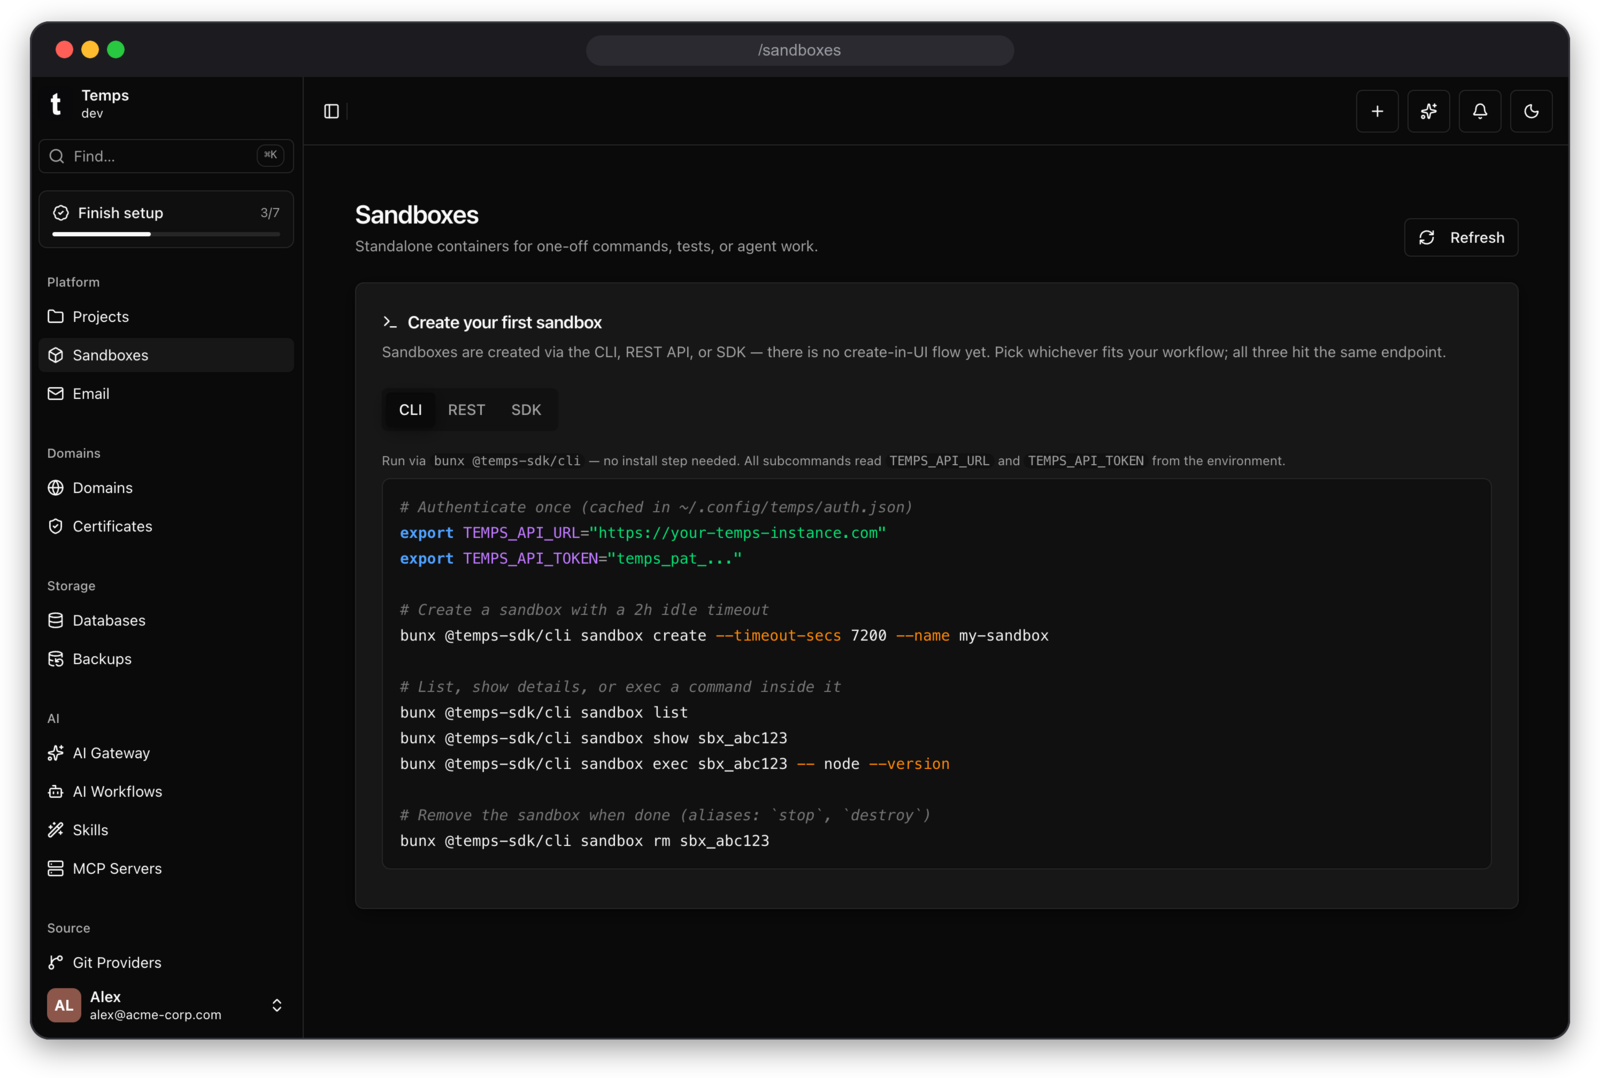
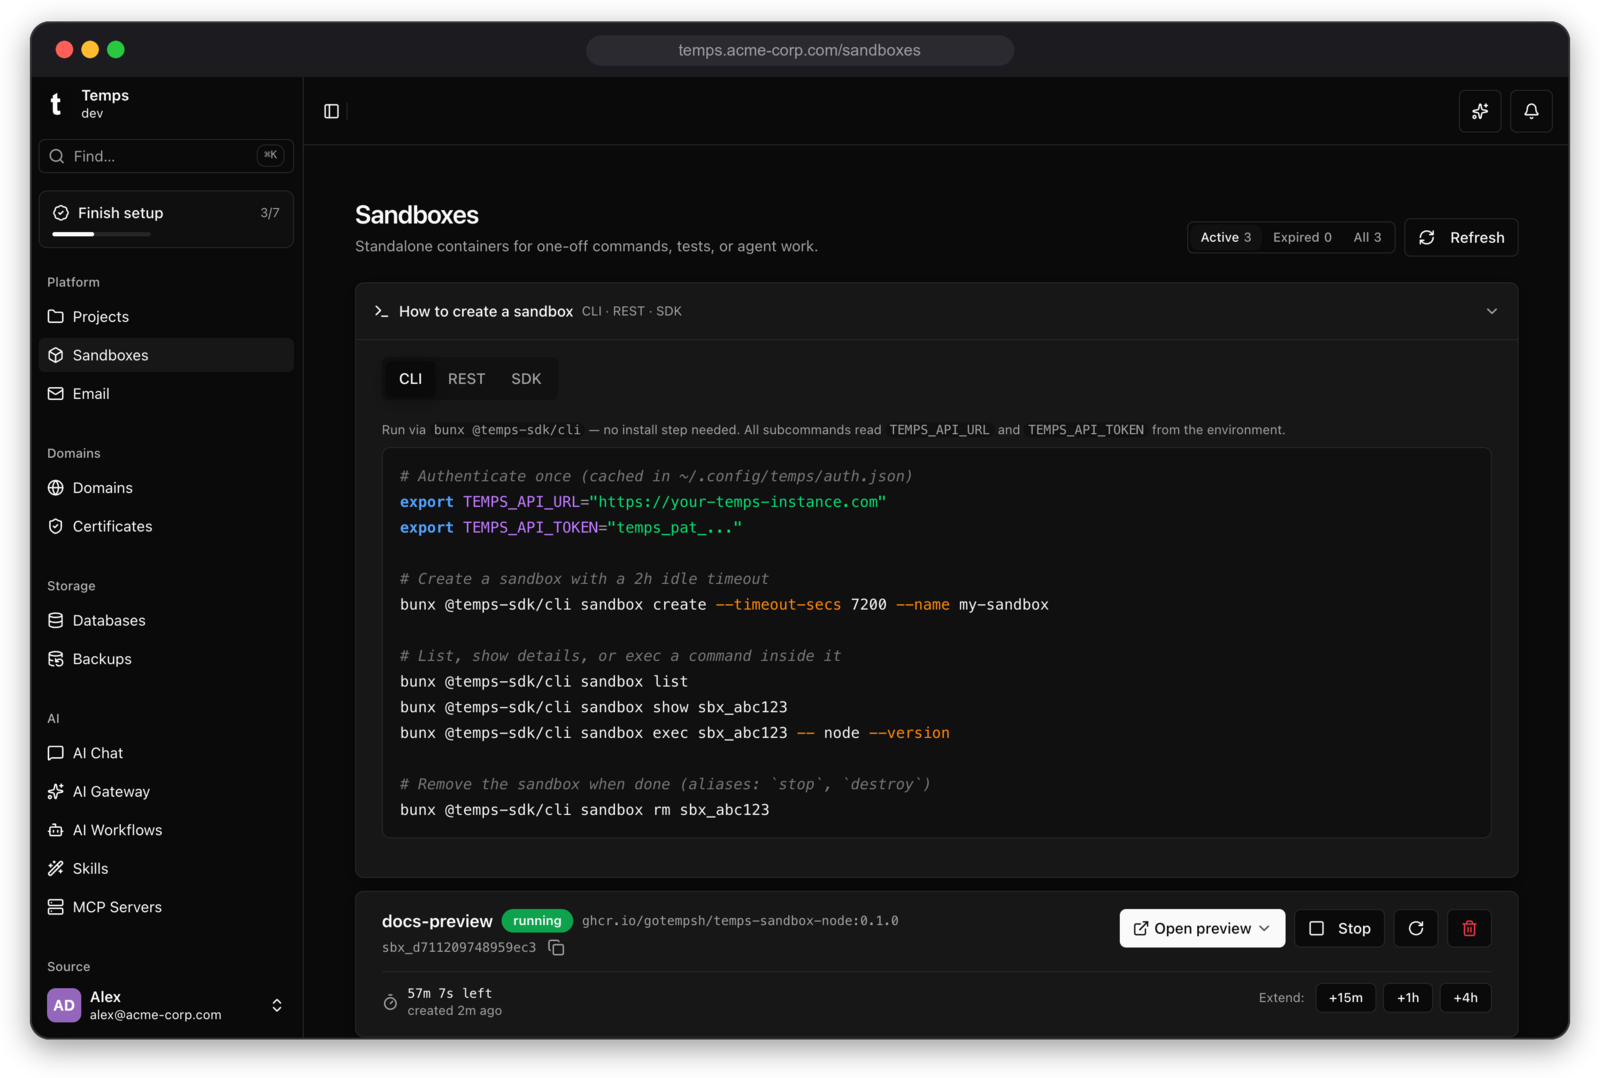
docs(readme): lead the sandbox section with Firecracker, the SDK and password previews
Sandboxes were described as a generic 'isolated code execution' feature, which
undersells the part competitors don't have: hardware-level isolation. The
section now leads with Firecracker microVMs (Docker stays the default backend),
shows the @temps-sdk/sandbox drop-in sample, and documents password-protected
preview URLs.

Screenshots are re-shot against real running sandboxes: the list now has the
CLI/REST/SDK panel expanded so the image itself carries copy-pasteable
commands, and a new detail shot shows the backend badge, command runner,
preview URL template and the 'Preview password set' timeline entry.

Every claim was checked against the source rather than asserted: the backend
routing in temps-agents/src/sandbox/plugin.rs, the compatibility note in
sdks/node/packages/sandbox/README.md, and the password flags in
skills/temps-cli/SKILL.md. CLI examples use the bunx @temps-sdk/cli form.

All six translations ported and kept byte-parallel with the English original.

diff --git a/README.ja.md b/README.ja.md
@@ -144,13 +144,44 @@ UI から DKIM レコード付きの送信ドメインを追加し、`@temps-sdk
   <img alt="Temps のアラート —— メトリクス、コンテナ、稼働監視、データベースにまたがる発火中・確認済み・解決済みのアラーム" src="assets/screenshots/alerts-light.png">
 </picture>
 
-### AI サンドボックス —— 隔離されたコード実行
+### AI サンドボックス —— Firecracker マイクロ VM、セルフホスト
 
-エージェントの作業、テスト、単発コマンドのための隔離サンドボックスを CLI、REST API、SDK から起動できます —— Vercel Sandbox 互換 API で、バックエンドは Docker または Firecracker マイクロ VM。E2B や Daytona に支払っていた分がこれで不要になります。
+**コンテナだけではない、本物のハードウェアレベルの隔離。** サンドボックスは **Firecracker マイクロ VM**（AWS Lambda を支えるのと同じ技術）上で動き、既定のバックエンドは **Docker** です。`temps firecracker setup` を実行すれば、Temps は自動でサンドボックスをマイクロ VM に振り分けます。各サンドボックスが独自のカーネルを持つため、エージェントが生成した信頼できないコードがホストとカーネルを共有することはありません。
+
+**そのまま差し替えられる SDK。** `@temps-sdk/sandbox` は `@vercel/sandbox` と互換の形をしています —— import とベース URL を変えるだけでプロバイダを切り替えられます:
+
+```ts
+import { Sandbox } from '@temps-sdk/sandbox'
+
+const sandbox = await Sandbox.create({
+  source: { type: 'git', url: 'https://github.com/example/repo.git', revision: 'main' },
+})
+
+const { stdout } = await sandbox.exec(['npm', 'test'])
+const url = sandbox.domain(3000) // VM 内の開発サーバーのライブプレビュー
+```
+
+**パスワード保護されたプレビュー。** サンドボックスの各ポートは公開プレビュー URL として公開でき、生成されたパスワードでロックできます:
+
+```bash
+bunx @temps-sdk/cli sandbox password sbx_abc123 --rotate --length 32
+bunx @temps-sdk/cli sandbox password sbx_abc123 --clear   # 再び公開する
+```
+
+動作中のブランチを、世界中に公開することなく共有できます。
+
+CLI と REST API からも利用できます。E2B や Daytona、Vercel Sandbox に支払っていた分がこれで不要になります。
 
 <picture>
   <source media="(prefers-color-scheme: dark)" srcset="assets/screenshots/sandboxes-dark.png">
-  <img alt="Temps のサンドボックス —— CLI、REST API、SDK から隔離サンドボックスを作成" src="assets/screenshots/sandboxes-light.png">
+  <img alt="Temps のサンドボックス —— 実行中のサンドボックスと、そのままコピーできる CLI・REST・SDK のスニペット" src="assets/screenshots/sandboxes-light.png">
+</picture>
+
+各サンドボックスにはシェル、バインドした任意のポート用のプレビュー URL テンプレート、そして起きたことすべてのタイムラインが付いてきます:
+
+<picture>
+  <source media="(prefers-color-scheme: dark)" srcset="assets/screenshots/sandbox-detail-dark.png">
+  <img alt="Temps サンドボックス詳細 —— Docker/Firecracker バックエンド、ブラウザ内コマンド実行、プレビュー URL テンプレート、パスワード保護されたプレビュー" src="assets/screenshots/sandbox-detail-light.png">
 </picture>
 
 ### すべてを1つのダッシュボードに

diff --git a/README.fr.md b/README.fr.md
@@ -144,13 +144,44 @@ Pointez n'importe quel exporter OTLP vers Temps et vous obtenez les traces distr
   <img alt="Alertes Temps — alarmes actives, acquittées et résolues sur les métriques, conteneurs, disponibilité et bases de données" src="assets/screenshots/alerts-light.png">
 </picture>
 
-### Sandboxes IA — exécution de code isolée
+### Sandboxes IA — micro-VM Firecracker, auto-hébergés
 
-Lancez des sandboxes isolés pour le travail d'agents, les tests et les commandes ponctuelles via CLI, API REST ou SDK — une API compatible Vercel Sandbox, avec des backends Docker ou micro-VM Firecracker. Exactement ce que vous paieriez sinon à E2B ou Daytona.
+**Une isolation matérielle réelle, pas seulement des conteneurs.** Les sandboxes tournent sur des **micro-VM Firecracker** — la technologie derrière AWS Lambda — avec **Docker** comme backend par défaut. Lancez `temps firecracker setup` et Temps route automatiquement les sandboxes vers des micro-VM ; chacune a son propre noyau, donc le code généré par un agent ne partage jamais le noyau de votre hôte.
+
+**Un SDK drop-in.** `@temps-sdk/sandbox` est compatible avec la forme de `@vercel/sandbox` — changez de fournisseur en changeant l'import et l'URL de base :
+
+```ts
+import { Sandbox } from '@temps-sdk/sandbox'
+
+const sandbox = await Sandbox.create({
+  source: { type: 'git', url: 'https://github.com/example/repo.git', revision: 'main' },
+})
+
+const { stdout } = await sandbox.exec(['npm', 'test'])
+const url = sandbox.domain(3000) // aperçu en direct d'un serveur de dev dans la VM
+```
+
+**Aperçus protégés par mot de passe.** Chaque port d'un sandbox peut être exposé sur une URL publique verrouillée par un mot de passe généré :
+
+```bash
+bunx @temps-sdk/cli sandbox password sbx_abc123 --rotate --length 32
+bunx @temps-sdk/cli sandbox password sbx_abc123 --clear   # la rouvrir
+```
+
+Partagez une branche en cours d'exécution sans la publier au monde entier.
+
+Également disponible via CLI et API REST. Exactement ce que vous paieriez sinon à E2B, Daytona ou Vercel Sandbox.
 
 <picture>
   <source media="(prefers-color-scheme: dark)" srcset="assets/screenshots/sandboxes-dark.png">
-  <img alt="Sandboxes Temps — créez des sandboxes isolés via CLI, API REST ou SDK" src="assets/screenshots/sandboxes-light.png">
+  <img alt="Sandboxes Temps — sandboxes en cours d'exécution avec des extraits CLI, REST et SDK prêts à copier" src="assets/screenshots/sandboxes-light.png">
+</picture>
+
+Chaque sandbox dispose d'un shell, d'un modèle d'URL d'aperçu pour tout port qu'il ouvre, et d'une chronologie de tout ce qui lui est arrivé :
+
+<picture>
+  <source media="(prefers-color-scheme: dark)" srcset="assets/screenshots/sandbox-detail-dark.png">
+  <img alt="Détail d'un sandbox Temps — backend Docker/Firecracker, exécuteur de commandes dans le navigateur, modèle d'URL d'aperçu et aperçus protégés par mot de passe" src="assets/screenshots/sandbox-detail-light.png">
 </picture>
 
 ### Tout dans un seul tableau de bord

diff --git a/README.es.md b/README.es.md
@@ -144,13 +144,44 @@ Apunta cualquier exporter OTLP a Temps y tendrás trazas distribuidas, métricas
   <img alt="Alertas de Temps — alarmas activas, reconocidas y resueltas de métricas, contenedores, disponibilidad y bases de datos" src="assets/screenshots/alerts-light.png">
 </picture>
 
-### Sandboxes de IA — ejecución de código aislada
+### Sandboxes de IA — microVMs Firecracker, autoalojados
 
-Levanta sandboxes aislados para trabajo de agentes, tests y comandos puntuales vía CLI, REST API o SDK — una API compatible con Vercel Sandbox, con backends Docker o microVM Firecracker. Justo lo que de otro modo pagarías a E2B o Daytona.
+**Aislamiento real a nivel de hardware, no solo contenedores.** Los sandboxes corren sobre **microVMs Firecracker** — la misma tecnología detrás de AWS Lambda — con **Docker** como backend por defecto. Ejecuta `temps firecracker setup` y Temps enruta los sandboxes a microVMs automáticamente; cada uno con su propio kernel, así el código generado por agentes no comparte kernel con tu host.
+
+**Un SDK drop-in.** `@temps-sdk/sandbox` es compatible con la forma de `@vercel/sandbox` — cambia de proveedor cambiando el import y la URL base:
+
+```ts
+import { Sandbox } from '@temps-sdk/sandbox'
+
+const sandbox = await Sandbox.create({
+  source: { type: 'git', url: 'https://github.com/example/repo.git', revision: 'main' },
+})
+
+const { stdout } = await sandbox.exec(['npm', 'test'])
+const url = sandbox.domain(3000) // vista previa en vivo de un servidor de desarrollo dentro de la VM
+```
+
+**Vistas previas protegidas por contraseña.** Cualquier puerto del sandbox puede exponerse en una URL pública protegida con una contraseña generada:
+
+```bash
+bunx @temps-sdk/cli sandbox password sbx_abc123 --rotate --length 32
+bunx @temps-sdk/cli sandbox password sbx_abc123 --clear   # vuelve a abrirla
+```
+
+Comparte una rama en ejecución sin publicarla al mundo entero.
+
+También disponible vía CLI y REST API. Justo lo que de otro modo pagarías a E2B, Daytona o Vercel Sandbox.
 
 <picture>
   <source media="(prefers-color-scheme: dark)" srcset="assets/screenshots/sandboxes-dark.png">
-  <img alt="Sandboxes de Temps — crea sandboxes aislados vía CLI, REST API o SDK" src="assets/screenshots/sandboxes-light.png">
+  <img alt="Sandboxes de Temps — sandboxes en ejecución con fragmentos de CLI, REST y SDK listos para copiar" src="assets/screenshots/sandboxes-light.png">
+</picture>
+
+Cada sandbox trae una shell, una plantilla de URL de vista previa para cualquier puerto que abra, y una cronología de todo lo que le ha pasado:
+
+<picture>
+  <source media="(prefers-color-scheme: dark)" srcset="assets/screenshots/sandbox-detail-dark.png">
+  <img alt="Detalle de sandbox en Temps — backend Docker/Firecracker, ejecutor de comandos en el navegador, plantilla de URL de vista previa y vistas previas protegidas por contraseña" src="assets/screenshots/sandbox-detail-light.png">
 </picture>
 
 ### Todo en un solo panel

diff --git a/README.pt-BR.md b/README.pt-BR.md
@@ -144,13 +144,44 @@ Aponte qualquer exporter OTLP para o Temps e tenha traces distribuídos, métric
   <img alt="Alertas do Temps — alarmes disparando, reconhecidos e resolvidos de métricas, containers, disponibilidade e bancos de dados" src="assets/screenshots/alerts-light.png">
 </picture>
 
-### Sandboxes de IA — execução de código isolada
+### Sandboxes de IA — microVMs Firecracker, auto-hospedados
 
-Suba sandboxes isolados para trabalho de agentes, testes e comandos pontuais via CLI, REST API ou SDK — uma API compatível com o Vercel Sandbox, com backends Docker ou microVM Firecracker. Exatamente o que você pagaria ao E2B ou ao Daytona.
+**Isolamento real em nível de hardware, não apenas contêineres.** Os sandboxes rodam em **microVMs Firecracker** — a mesma tecnologia por trás do AWS Lambda — com **Docker** como backend padrão. Rode `temps firecracker setup` e o Temps roteia os sandboxes para microVMs automaticamente; cada um com seu próprio kernel, então código gerado por agentes nunca compartilha kernel com o seu host.
+
+**Um SDK drop-in.** `@temps-sdk/sandbox` é compatível com o formato do `@vercel/sandbox` — troque de provedor mudando o import e a URL base:
+
+```ts
+import { Sandbox } from '@temps-sdk/sandbox'
+
+const sandbox = await Sandbox.create({
+  source: { type: 'git', url: 'https://github.com/example/repo.git', revision: 'main' },
+})
+
+const { stdout } = await sandbox.exec(['npm', 'test'])
+const url = sandbox.domain(3000) // preview ao vivo de um dev server dentro da VM
+```
+
+**Previews protegidos por senha.** Qualquer porta do sandbox pode ser exposta em uma URL pública protegida por uma senha gerada:
+
+```bash
+bunx @temps-sdk/cli sandbox password sbx_abc123 --rotate --length 32
+bunx @temps-sdk/cli sandbox password sbx_abc123 --clear   # abre de novo
+```
+
+Compartilhe uma branch em execução sem publicá-la para o mundo.
+
+Também disponível via CLI e REST API. Exatamente o que você pagaria ao E2B, Daytona ou Vercel Sandbox.
 
 <picture>
   <source media="(prefers-color-scheme: dark)" srcset="assets/screenshots/sandboxes-dark.png">
-  <img alt="Sandboxes do Temps — crie sandboxes isolados via CLI, REST API ou SDK" src="assets/screenshots/sandboxes-light.png">
+  <img alt="Sandboxes do Temps — sandboxes em execução com trechos de CLI, REST e SDK prontos para copiar" src="assets/screenshots/sandboxes-light.png">
+</picture>
+
+Cada sandbox ganha um shell, um modelo de URL de preview para qualquer porta que abrir, e uma linha do tempo de tudo o que aconteceu com ele:
+
+<picture>
+  <source media="(prefers-color-scheme: dark)" srcset="assets/screenshots/sandbox-detail-dark.png">
+  <img alt="Detalhe de sandbox no Temps — backend Docker/Firecracker, executor de comandos no navegador, modelo de URL de preview e previews protegidos por senha" src="assets/screenshots/sandbox-detail-light.png">
 </picture>
 
 ### Tudo em um só Dashboard

diff --git a/README.de.md b/README.de.md
@@ -144,13 +144,44 @@ Richte einen beliebigen OTLP-Exporter auf Temps und du bekommst verteilte Traces
   <img alt="Temps-Alerts — feuernde, bestätigte und aufgelöste Alarme aus Metriken, Containern, Uptime und Datenbanken" src="assets/screenshots/alerts-light.png">
 </picture>
 
-### KI-Sandboxes — isolierte Code-Ausführung
+### KI-Sandboxes — Firecracker-microVMs, selbst gehostet
 
-Starte isolierte Sandboxes für Agenten-Aufgaben, Tests und einmalige Befehle per CLI, REST-API oder SDK — eine zu Vercel Sandbox kompatible API mit Docker- oder Firecracker-microVM-Backend. Genau das, wofür du sonst E2B oder Daytona bezahlst.
+**Echte Isolation auf Hardware-Ebene, nicht nur Container.** Sandboxes laufen auf **Firecracker-microVMs** — derselben Technik hinter AWS Lambda — mit **Docker** als Standard-Backend. Führe `temps firecracker setup` aus, und Temps leitet Sandboxes automatisch auf microVMs; jede bekommt ihren eigenen Kernel, sodass von Agenten generierter Code nie den Kernel deines Hosts teilt.
+
+**Ein Drop-in-SDK.** `@temps-sdk/sandbox` ist kompatibel zur Form von `@vercel/sandbox` — Anbieter wechseln heißt Import und Base-URL ändern:
+
+```ts
+import { Sandbox } from '@temps-sdk/sandbox'
+
+const sandbox = await Sandbox.create({
+  source: { type: 'git', url: 'https://github.com/example/repo.git', revision: 'main' },
+})
+
+const { stdout } = await sandbox.exec(['npm', 'test'])
+const url = sandbox.domain(3000) // Live-Vorschau eines Dev-Servers in der VM
+```
+
+**Passwortgeschützte Vorschauen.** Jeder Sandbox-Port lässt sich über eine öffentliche Vorschau-URL bereitstellen und mit einem generierten Passwort sperren:
+
+```bash
+bunx @temps-sdk/cli sandbox password sbx_abc123 --rotate --length 32
+bunx @temps-sdk/cli sandbox password sbx_abc123 --clear   # wieder öffnen
+```
+
+Teile einen laufenden Branch, ohne ihn der ganzen Welt auszuliefern.
+
+Ebenfalls per CLI und REST-API verfügbar. Genau das, wofür du sonst E2B, Daytona oder Vercel Sandbox bezahlst.
 
 <picture>
   <source media="(prefers-color-scheme: dark)" srcset="assets/screenshots/sandboxes-dark.png">
-  <img alt="Temps-Sandboxes — isolierte Sandboxes per CLI, REST-API oder SDK erstellen" src="assets/screenshots/sandboxes-light.png">
+  <img alt="Temps-Sandboxes — laufende Sandboxes mit kopierfertigen CLI-, REST- und SDK-Snippets" src="assets/screenshots/sandboxes-light.png">
+</picture>
+
+Jede Sandbox bekommt eine Shell, eine Vorschau-URL-Vorlage für jeden gebundenen Port und eine Chronik von allem, was mit ihr passiert ist:
+
+<picture>
+  <source media="(prefers-color-scheme: dark)" srcset="assets/screenshots/sandbox-detail-dark.png">
+  <img alt="Temps-Sandbox-Detail — Docker-/Firecracker-Backend, Befehlsausführung im Browser, Vorschau-URL-Vorlage und passwortgeschützte Vorschauen" src="assets/screenshots/sandbox-detail-light.png">
 </picture>
 
 ### Alles in einem Dashboard

diff --git a/README.md b/README.md
@@ -144,13 +144,44 @@ Point any OTLP exporter at Temps and get distributed traces, metrics, and struct
   <img alt="Temps alerts — firing, acknowledged and resolved alarms across metrics, containers, uptime and databases" src="assets/screenshots/alerts-light.png">
 </picture>
 
-### AI Sandboxes — isolated code execution
+### AI Sandboxes — Firecracker microVMs, self-hosted
 
-Spin up isolated sandboxes for agent work, tests, and one-off commands via CLI, REST API, or SDK — a Vercel Sandbox-compatible API with Docker or Firecracker microVM backends. What you'd otherwise pay E2B or Daytona for.
+**Real hardware-level isolation, not just containers.** Sandboxes run on **Firecracker microVMs** — the same tech behind AWS Lambda — with a **Docker** backend as the default. Run `temps firecracker setup` and Temps routes sandboxes to microVMs automatically; each one gets its own kernel, so untrusted agent-generated code never shares a kernel with your host.
+
+**A drop-in SDK.** `@temps-sdk/sandbox` is compatible with the `@vercel/sandbox` shape — switch providers by changing the import and base URL:
+
+```ts
+import { Sandbox } from '@temps-sdk/sandbox'
+
+const sandbox = await Sandbox.create({
+  source: { type: 'git', url: 'https://github.com/example/repo.git', revision: 'main' },
+})
+
+const { stdout } = await sandbox.exec(['npm', 'test'])
+const url = sandbox.domain(3000) // live preview of a dev server inside the VM
+```
+
+**Password-protected previews.** Every sandbox port can be exposed on a public preview URL and locked behind a generated password:
+
+```bash
+bunx @temps-sdk/cli sandbox password sbx_abc123 --rotate --length 32
+bunx @temps-sdk/cli sandbox password sbx_abc123 --clear   # open it back up
+```
+
+Share a running branch without shipping it to the world.
+
+Also available via CLI and REST API. What you'd otherwise pay E2B, Daytona, or Vercel Sandbox for.
 
 <picture>
   <source media="(prefers-color-scheme: dark)" srcset="assets/screenshots/sandboxes-dark.png">
-  <img alt="Temps sandboxes — create isolated sandboxes via CLI, REST API or SDK" src="assets/screenshots/sandboxes-light.png">
+  <img alt="Temps sandboxes — running sandboxes with copy-paste CLI, REST and SDK snippets" src="assets/screenshots/sandboxes-light.png">
+</picture>
+
+Each sandbox gets a shell, a preview URL template for any port it binds, and a timeline of everything that happened to it:
+
+<picture>
+  <source media="(prefers-color-scheme: dark)" srcset="assets/screenshots/sandbox-detail-dark.png">
+  <img alt="Temps sandbox detail — Docker/Firecracker backend, in-browser command runner, preview URL template and password-protected previews" src="assets/screenshots/sandbox-detail-light.png">
 </picture>
 
 ### Everything in One Dashboard
